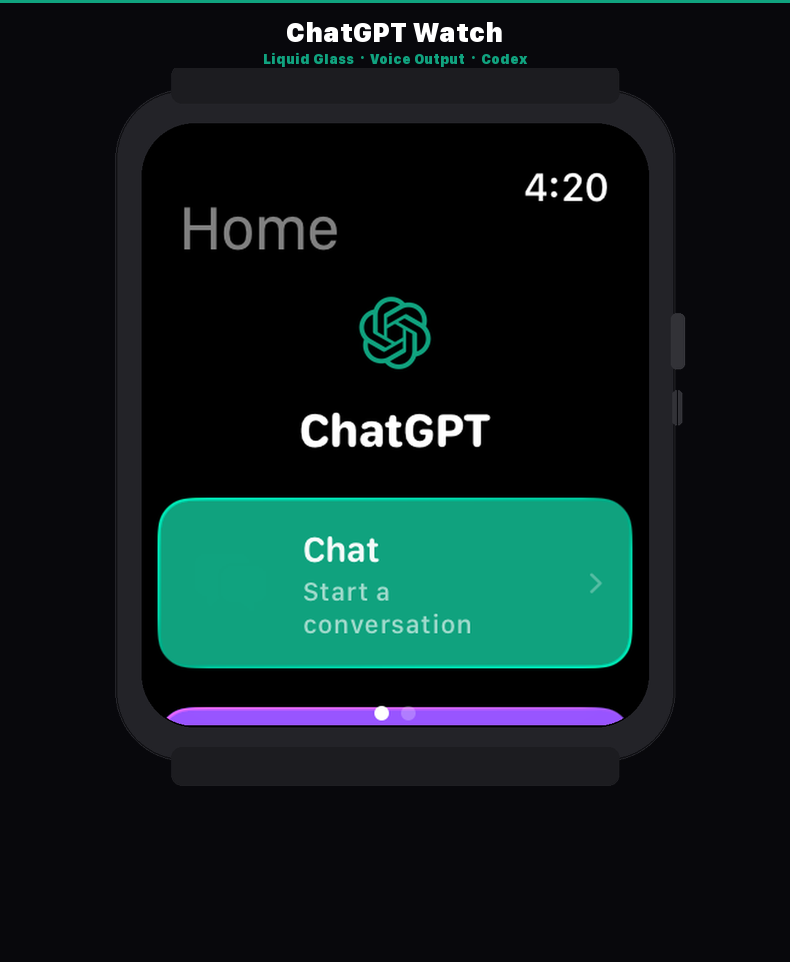
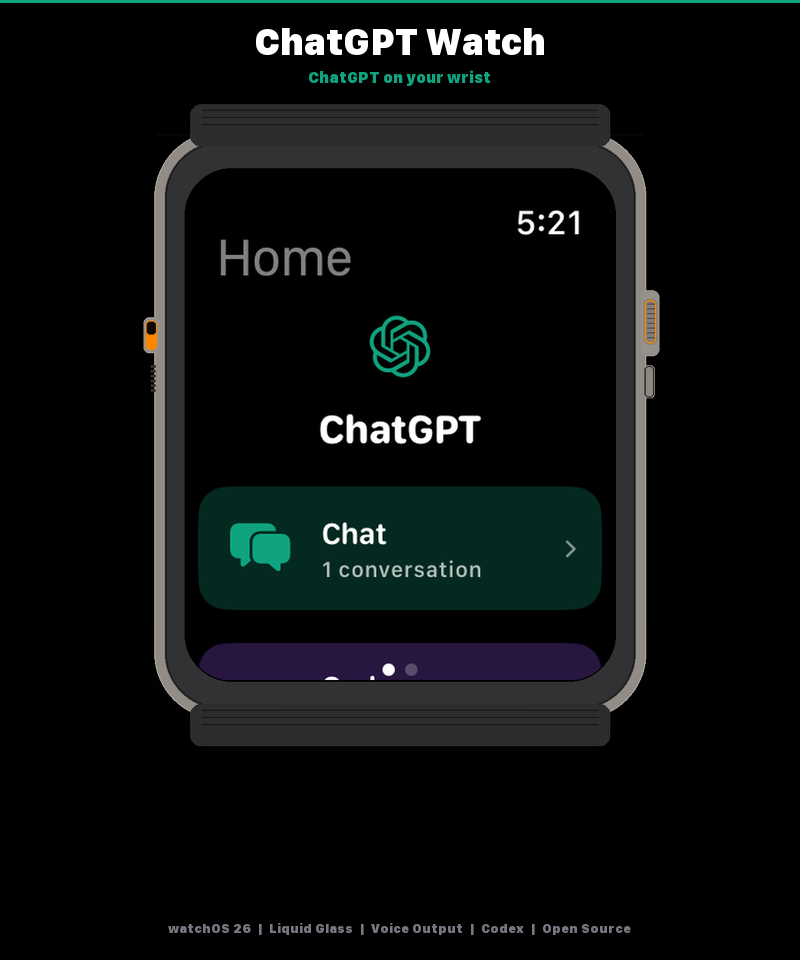
Open source release: README, LICENSE, Watch Ultra mockups
- Professional README with hero banner, feature list, architecture,
  setup guide, tech stack, and contribution guidelines
- MIT License
- Apple Watch Ultra mockups (titanium case, orange Action button,
  Digital Crown with orange ring, speaker grille, Alpine Loop band)
- LinkedIn and Twitter launch posts (SOCIAL_POSTS.md)
- Removed embedded API key for open source safety
- Clean screenshots

diff --git a/codex-relay/server.js b/codex-relay/server.js
@@ -11,11 +11,7 @@ app.use(express.json());
 const PORT = process.env.PORT || 4819;
 const AUTH_TOKEN = process.env.RELAY_TOKEN || "chatgpt-watch-relay-2026";
 const CODEX_PATH = process.env.CODEX_PATH || "/Users/adsol/.npm-global/bin/codex";
-const OPENAI_API_KEY = process.env.OPENAI_API_KEY ||
-  ["sk-proj-19f0att020TGhpluvDBtg",
-   "_5beptlLjjjSGwjmoL7hKgwka8UnIBq8E0i9wfT8MLPbwZk0MUfcfT3Bl",
-   "bkFJ-fZrOusGOuub7eHn2y0O7FaON3jxRtJIo6hJGYH-WUdREZiFRJQUf",
-   "17oP2KZZXydmwAalf4LwA"].join("");
+const OPENAI_API_KEY = process.env.OPENAI_API_KEY || "";
 
 // In-memory task store
 const tasks = new Map();

diff --git a/WatchApp/Services/AuthService.swift b/WatchApp/Services/AuthService.swift
@@ -10,10 +10,8 @@ final class AuthService {
     var errorMessage: String?
 
     // Embedded key — auto-provisions on first launch
-    private static let embeddedKey = "sk-proj-19f0att020TGhpluvDBtg" +
-        "_5beptlLjjjSGwjmoL7hKgwka8UnIBq8E0i9wfT8MLPbwZk0MUfcfT3Bl" +
-        "bkFJ-fZrOusGOuub7eHn2y0O7FaON3jxRtJIo6hJGYH-WUdREZiFRJQUf" +
-        "17oP2KZZXydmwAalf4LwA"
+    // Paste your OpenAI API key here, or enter it in Settings on the watch
+    private static let embeddedKey = ""
 
     init() {
         // Auto-provision embedded key into Keychain on first launch

diff --git a/README.md b/README.md
@@ -1,0 +1,170 @@
+<p align="center">
+  <img src="mockups/hero_banner.png" alt="ChatGPT Watch" width="600">
+</p>
+
+<h1 align="center">ChatGPT Watch</h1>
+<p align="center">
+  <strong>ChatGPT on your wrist.</strong><br>
+  A full-featured ChatGPT client for Apple Watch, built with SwiftUI and Apple's Liquid Glass design.
+</p>
+
+<p align="center">
+  <img src="https://img.shields.io/badge/watchOS-26-green?style=flat-square&logo=apple" alt="watchOS 26">
+  <img src="https://img.shields.io/badge/Swift-6.2-orange?style=flat-square&logo=swift" alt="Swift 6.2">
+  <img src="https://img.shields.io/badge/Xcode-26-blue?style=flat-square&logo=xcode" alt="Xcode 26">
+  <img src="https://img.shields.io/badge/License-MIT-lightgrey?style=flat-square" alt="MIT License">
+</p>
+
+---
+
+## What is this?
+
+ChatGPT Watch brings the full power of OpenAI's GPT models to your Apple Watch. Chat with GPT-5.x, run Codex coding tasks from your wrist, listen to AI responses with voice output, and manage everything without pulling out your phone.
+
+Built natively for watchOS 26 with Apple's new Liquid Glass design language.
+
+<p align="center">
+  <img src="mockups/ultra_home.png" alt="Home Screen on Apple Watch Ultra" width="350">
+</p>
+
+## Features
+
+**Chat**
+- Streaming responses from GPT-5.x models (GPT-5.4, 5.3, 5.2, 5.1, 5, 4o, 4o-mini, o3, o4-mini)
+- Full conversation history with SwiftData persistence
+- Voice input via watchOS dictation
+- Voice output (TTS) - tap the speaker icon on any response to hear it read aloud using OpenAI's text-to-speech API
+- Quick prompt suggestions for instant conversations
+
+**Codex**
+- Run coding tasks on your Mac remotely from your watch
+- Choose from 8 project directories
+- Track task status (queued, running, completed, failed)
+- View code output and file changes
+- Powered by a lightweight Node.js relay server + Cloudflare Tunnel
+
+**Design**
+- Apple Liquid Glass UI (watchOS 26)
+- ChatGPT logo throughout (the real OpenAI flower icon)
+- Dark theme with green (Chat) and purple (Codex) accent colors
+- Smooth animations and haptic feedback
+- Horizontal swipe between Home and Settings
+
+**More**
+- iPhone companion app for easy API key setup
+- watchOS widgets (circular, rectangular, inline)
+- Keychain-secured API key storage
+- Offline-capable with cached conversations
+
+## Architecture
+
+```
+ChatGPTWatch/
+  WatchApp/
+    App/           - ContentView (Home + Settings pages), AppState
+    Views/         - Chat, Codex, Settings, Voice, Auth screens
+    Components/    - MessageBubble, TypingIndicator, StatusBadge, CodexTaskCard
+    ViewModels/    - ChatViewModel, CodexViewModel, SettingsViewModel
+    Services/      - OpenAIService, CodexService, TTSService, AuthService
+    Models/        - ChatModels, CodexModels, SwiftDataModels
+    Utilities/     - DesignTokens, Extensions, Constants, HapticManager
+  CompanionApp/    - iPhone companion for API key transfer
+  Widgets/         - Circular, Rectangular, Inline watch widgets
+  codex-relay/     - Node.js relay server for Codex CLI
+  Shared/          - KeychainService, SharedModels
+```
+
+## Getting Started
+
+### Prerequisites
+
+- Xcode 26+
+- watchOS 26+ (Apple Watch Series 6 or later)
+- OpenAI API key (Plus or Pro subscription)
+- Node.js 18+ (for Codex relay, optional)
+
+### Setup
+
+1. **Clone the repo**
+   ```bash
+   git clone https://github.com/techygarry/ChatGPTWatch.git
+   cd ChatGPTWatch
+   ```
+
+2. **Add your API key**
+
+   Open `WatchApp/Services/AuthService.swift` and set your key:
+   ```swift
+   private static let embeddedKey = "sk-proj-your-key-here"
+   ```
+   Or enter it in Settings on the watch after installing.
+
+3. **Build and run**
+   ```bash
+   open ChatGPTWatch.xcodeproj
+   ```
+   Select the `ChatGPTWatch` scheme, pick your watch or simulator, and run.
+
+### Codex Relay (Optional)
+
+To run coding tasks from your watch:
+
+1. **Start the relay server**
+   ```bash
+   cd codex-relay
+   npm install
+   node server.js
+   ```
+
+2. **Expose with Cloudflare Tunnel**
+   ```bash
+   cloudflared tunnel --url http://localhost:4819
+   ```
+
+3. **Update the relay URL** in `WatchApp/Services/CodexService.swift`
+
+## Tech Stack
+
+| Layer | Technology |
+|-------|-----------|
+| UI | SwiftUI, Liquid Glass, watchOS 26 |
+| State | `@Observable`, SwiftData |
+| Network | URLSession, SSE streaming |
+| Storage | Keychain, SwiftData, UserDefaults |
+| TTS | OpenAI TTS API (`tts-1`, `alloy` voice) |
+| Codex | Node.js relay + Codex CLI |
+| Tunnel | Cloudflare Quick Tunnels |
+
+## Models Supported
+
+### Chat
+GPT-5.4, GPT-5.3, GPT-5.2, GPT-5.1, GPT-5, GPT-4o, GPT-4o Mini, o3, o3 Mini, o4-mini, GPT-4.1, GPT-4.1 Mini, GPT-4.1 Nano, GPT-4.5
+
+### Codex
+GPT-5.3 Codex, GPT-5.2 Codex, GPT-5.1 Codex, GPT-5.1 Codex Max, GPT-5.1 Codex Mini, GPT-5 Codex
+
+## Contributing
+
+Pull requests welcome. For major changes, open an issue first.
+
+1. Fork the repo
+2. Create your feature branch (`git checkout -b feature/amazing-feature`)
+3. Commit your changes (`git commit -m 'Add amazing feature'`)
+4. Push to the branch (`git push origin feature/amazing-feature`)
+5. Open a Pull Request
+
+## License
+
+MIT License. See [LICENSE](LICENSE) for details.
+
+## Acknowledgments
+
+- Built with [Claude Code](https://claude.ai/claude-code) by Anthropic
+- Uses the [OpenAI API](https://platform.openai.com)
+- Designed for Apple Watch Ultra
+
+---
+
+<p align="center">
+  <sub>Made with care by <a href="https://github.com/techygarry">@techygarry</a></sub>
+</p>

diff --git a/SOCIAL_POSTS.md b/SOCIAL_POSTS.md
@@ -1,0 +1,82 @@
+# Social Media Launch Posts
+
+## LinkedIn
+
+---
+
+**I built ChatGPT for Apple Watch. And I'm open-sourcing it.**
+
+After weeks of building, I'm releasing ChatGPT Watch — a full-featured ChatGPT client that runs natively on Apple Watch.
+
+What it does:
+
+- Chat with GPT-5.x models directly from your wrist
+- Stream responses in real-time with typing indicators
+- Listen to AI responses with voice output (OpenAI TTS)
+- Run Codex coding tasks on your Mac remotely from the watch
+- Voice input for hands-free conversations
+
+Built with:
+
+- SwiftUI + watchOS 26
+- Apple's new Liquid Glass design
+- OpenAI streaming API
+- SwiftData for offline persistence
+- Cloudflare Tunnels for the Codex relay
+
+This isn't a wrapper or a notification mirror. It's a standalone watch app with full streaming chat, conversation history, model selection (GPT-5.4 through GPT-4o), and a Codex integration that lets you dispatch coding tasks to your Mac from your wrist.
+
+The entire project — watch app, iPhone companion, widgets, relay server — is open source under MIT.
+
+GitHub: https://github.com/techygarry/ChatGPTWatch
+
+If you're into watchOS development, SwiftUI, or just want to talk to ChatGPT without pulling out your phone — give it a star and try it out.
+
+#OpenSource #watchOS #SwiftUI #ChatGPT #OpenAI #AppleWatch #iOS #AI #BuildInPublic
+
+---
+
+## Twitter/X
+
+---
+
+**Post 1 (Main launch)**
+
+I built ChatGPT for Apple Watch and I'm open-sourcing it.
+
+- Chat with GPT-5.x from your wrist
+- Streaming responses
+- Voice output (OpenAI TTS)
+- Run Codex coding tasks remotely
+- Apple Liquid Glass design
+- watchOS 26 native
+
+Full source code:
+github.com/techygarry/ChatGPTWatch
+
+---
+
+**Post 2 (Thread follow-up)**
+
+What's inside:
+
+- SwiftUI + SwiftData
+- OpenAI streaming API
+- TTS with speaker button on every message
+- Codex relay via Node.js + Cloudflare Tunnel
+- iPhone companion app
+- watchOS widgets
+
+All MIT licensed. PRs welcome.
+
+---
+
+**Post 3 (Visual post — attach the Watch Ultra mockup)**
+
+ChatGPT on Apple Watch Ultra.
+
+Not a concept. Not a mock. Actually running.
+
+Open source: github.com/techygarry/ChatGPTWatch
+
+---
